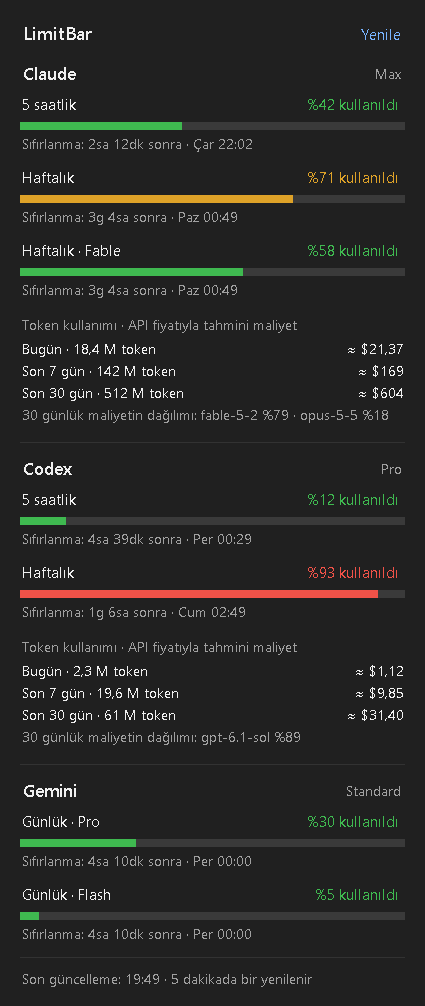
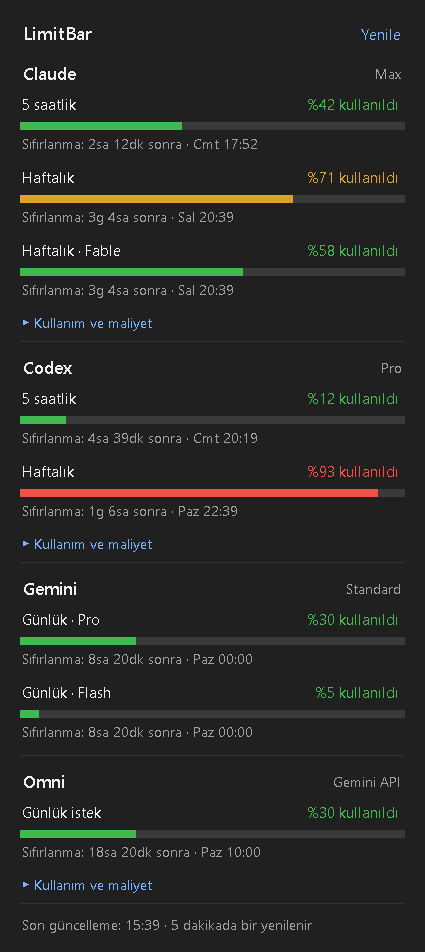
LimitBar v1.2.0: Gemini Omni usage, collapsible usage and cost
- Omni (Gemini API) section: key check, videos / tokens / estimated bill
  from a local usage log, 429 warning, optional daily request bar
- Usage, cost and detail lines are collapsible and start closed

Changed region(s): [[0.0306, 0.0305, 0.9482, 0.9748], [0.8565, 0.0305, 0.8871, 0.0609], [0.1224, 0.9748, 0.1529, 1.0]]

diff --git a/README.md b/README.md
@@ -25,6 +25,7 @@ macOS için yazılmış [CodexBar](https://github.com/steipete/CodexBar) uygulam
 | **Claude Code** | 5 saatlik, haftalık, model bazlı haftalık limitler (ör. **Fable**), ek kullanım | Claude Pro / Max / Team / Enterprise aboneliğiyle `claude` CLI'a giriş yapılmış olması |
 | **Codex** | 5 saatlik ve/veya haftalık, modele özel limitler, kredi bakiyesi | ChatGPT hesabıyla Codex'e (CLI veya masaüstü uygulaması) giriş yapılmış olması |
 | **Gemini CLI** | Günlük Pro / Flash / Flash-Lite kotası | Google hesabıyla `gemini` CLI'a giriş yapılmış olması (bkz. [Gemini notu](#gemini-notu)) |
+| **Gemini Omni (API)** | Video sayısı, token, tahmini fatura, isteğe bağlı günlük istek limiti, kota hatası uyarısı | `GEMINI_API_KEY` ortam değişkeni ve video üreten betiğin kayıt yazması (bkz. [Gemini Omni](#gemini-omni-api)) |
 
 Giriş yapılmamış servisler panelde hiç görünmez.
 
@@ -76,6 +77,7 @@ Uygulamayı kapatır, `%LOCALAPPDATA%\LimitBar` klasörünü ve kısayolları si
 | İşlem | Sonuç |
 |---|---|
 | İkona **sol tık** | Limit panelini açar / kapatır |
+| Paneldeki **▸ Kullanım ve maliyet** | O servisin token / maliyet ayrıntılarını açar / kapatır (uygulama her açıldığında kapalı başlar) |
 | İkonun **üzerine gelmek** | Her servisin en yüksek kullanımını kısaca gösterir |
 | **Sağ tık → Şimdi yenile** | Limitleri hemen yeniden çeker |
 | **Sağ tık → Windows ile başlat** | Başlangıçta açılmayı açar / kapatır |
@@ -94,6 +96,31 @@ Panelde Claude Code ve Codex için **bugün, son 7 gün ve son 30 gün** harcana
 - Kayıtlar ilk açılışta bir kez taranır (birkaç GB'lık kayıt için birkaç saniye), sonraki yenilemelerde yalnızca yeni eklenen satırlar okunur.
 - Token toplamına önbellekten okunan (cache read) ve önbelleğe yazılan tokenlar da dahildir; maliyet her türü kendi fiyatıyla hesaplar.
 - **Bu bir tahmindir ve faturanız değildir.** Abonelikle (Pro / Max / Team / Plus…) kullandığınızda bu tutarı ödemezsiniz; aynı kullanımın API ile kaç dolara geleceğini gösterir. Fiyatlar 2026 Kasım itibarıyla Anthropic ve OpenAI'ın standart API fiyatlarıdır (uzun bağlam, batch ve hızlı mod indirim/ek ücretleri hesaba katılmaz).
+
+### Gemini Omni (API)
+
+Google, Gemini API anahtarıyla yapılan Omni video isteklerinde **kalan kotayı göstermiyor**. Bu yüzden LimitBar Omni kullanımını, video üreten betiğinizin yazdığı yerel bir kayıttan okur ve `GEMINI_API_KEY` anahtarınızın geçerli olduğunu ücretsiz bir istekle kontrol eder.
+
+Videoyu ürettiğiniz betikte, her istekten sonra `%LOCALAPPDATA%\LimitBar\omni-usage.jsonl` dosyasına bir satır ekleyin:
+
+```powershell
+function Write-LimitBarLog($entry) {
+    try {
+        $dir = Join-Path $env:LOCALAPPDATA 'LimitBar'
+        if (-not (Test-Path -LiteralPath $dir)) { New-Item -ItemType Directory -Force -Path $dir | Out-Null }
+        [IO.File]::AppendAllText((Join-Path $dir 'omni-usage.jsonl'), (($entry | ConvertTo-Json -Compress -Depth 6) + "`n"), (New-Object Text.UTF8Encoding $false))
+    } catch {}
+}
+# Başarılı istekten sonra ($resp = Interactions API yanıtı):
+Write-LimitBarLog ([ordered]@{ ts = (Get-Date).ToUniversalTime().ToString('o'); model = $Model; status = $resp.status; http = 200; usage = $resp.usage })
+# Hata olduğunda:
+Write-LimitBarLog ([ordered]@{ ts = (Get-Date).ToUniversalTime().ToString('o'); model = $Model; status = 'error'; http = 429 })
+```
+
+Panelde şunlar görünür:
+- Bugün / 7 gün / 30 gün üretilen **video sayısı**, token ve **tahmini fatura**. Fiyat: Omni Flash için milyon token başına girdi $1,50, video çıktısı $17,50; 720p'de saniye başına yaklaşık $0,10.
+- Bugün **429 (kota) hatası** alındıysa bir uyarı. Google'ın günlük kotası Pasifik saatiyle gece yarısı (Türkiye saatiyle 11:00) sıfırlanır.
+- **Günlük istek çubuğu (isteğe bağlı):** Google AI Studio'da gördüğünüz günlük istek limitinizi `%LOCALAPPDATA%\LimitBar\settings.json` dosyasına `"omniDailyLimit": 20` şeklinde yazarsanız, "Günlük istek" çubuğu ve %95 bildirimi de çalışır.
 
 ### Komut satırı seçenekleri
 

diff --git a/README.en.md b/README.en.md
@@ -27,6 +27,7 @@ Inspired by [CodexBar](https://github.com/steipete/CodexBar) for macOS.
 | **Claude Code** | 5-hour, weekly, per-model weekly limits (e.g. **Fable**), extra usage | Signed in to the `claude` CLI with a Pro / Max / Team / Enterprise plan |
 | **Codex** | 5-hour and/or weekly, per-model limits, credit balance | Signed in to Codex (CLI or desktop app) with a ChatGPT account |
 | **Gemini CLI** | Daily Pro / Flash / Flash-Lite quota | Signed in to the `gemini` CLI with Google (see [Gemini note](#gemini-note)) |
+| **Gemini Omni (API)** | Video count, tokens, estimated bill, optional daily request limit, quota-error warning | `GEMINI_API_KEY` set and your video script writing a usage log (see [Gemini Omni](#gemini-omni-api)) |
 
 Services you are not signed in to are simply hidden.
 
@@ -71,12 +72,39 @@ When any limit (5-hour, weekly, per-model…) reaches **95%**, you get a Windows
 
 ## Token usage and estimated cost
 
+Click **▸ Kullanım ve maliyet** (usage and cost) under a service to expand these details; they start collapsed each time the app starts.
+
 For Claude Code and Codex, the panel shows tokens spent **today, in the last 7 days and in the last 30 days**, what that would cost **at API prices**, and the 30-day cost split by model.
 
 - Read from the CLIs' local session logs (`%USERPROFILE%\.claude\projects\**\*.jsonl`, `%USERPROFILE%\.codex\sessions\**\*.jsonl`). **Nothing is sent anywhere.**
 - Logs are scanned once at startup (a few seconds for several GB), then only newly appended lines are read.
 - Token totals include cache reads and cache writes; the cost prices each kind at its own rate.
 - **This is an estimate, not your bill.** On a subscription (Pro / Max / Team / Plus…) you don't pay this amount; it shows what the same usage would cost via the API, using Anthropic's and OpenAI's standard API prices as of November 2026 (long-context, batch and fast-mode pricing is not modelled).
+
+## Gemini Omni (API)
+
+Google does **not expose remaining quota** for Omni video requests made with a Gemini API key. LimitBar therefore reads Omni usage from a local log written by your video script, and checks that `GEMINI_API_KEY` is valid with a free request.
+
+After each request, append one JSON line to `%LOCALAPPDATA%\LimitBar\omni-usage.jsonl`:
+
+```powershell
+function Write-LimitBarLog($entry) {
+    try {
+        $dir = Join-Path $env:LOCALAPPDATA 'LimitBar'
+        if (-not (Test-Path -LiteralPath $dir)) { New-Item -ItemType Directory -Force -Path $dir | Out-Null }
+        [IO.File]::AppendAllText((Join-Path $dir 'omni-usage.jsonl'), (($entry | ConvertTo-Json -Compress -Depth 6) + "`n"), (New-Object Text.UTF8Encoding $false))
+    } catch {}
+}
+# after a successful request ($resp = Interactions API response):
+Write-LimitBarLog ([ordered]@{ ts = (Get-Date).ToUniversalTime().ToString('o'); model = $Model; status = $resp.status; http = 200; usage = $resp.usage })
+# on failure:
+Write-LimitBarLog ([ordered]@{ ts = (Get-Date).ToUniversalTime().ToString('o'); model = $Model; status = 'error'; http = 429 })
+```
+
+The panel then shows:
+- **Videos**, tokens and **estimated bill** for today / 7 days / 30 days. Omni Flash is priced at $1.50 per 1M input tokens and $17.50 per 1M video output tokens, about $0.10 per second of 720p.
+- A warning if a **429 (quota) error** happened today. Google's daily quota resets at midnight Pacific time.
+- **Optional daily request bar:** put your daily request limit from Google AI Studio into `%LOCALAPPDATA%\LimitBar\settings.json` as `"omniDailyLimit": 20` to get a "Günlük istek" (daily requests) bar and the 95% notification.
 
 ## Command-line options
 
